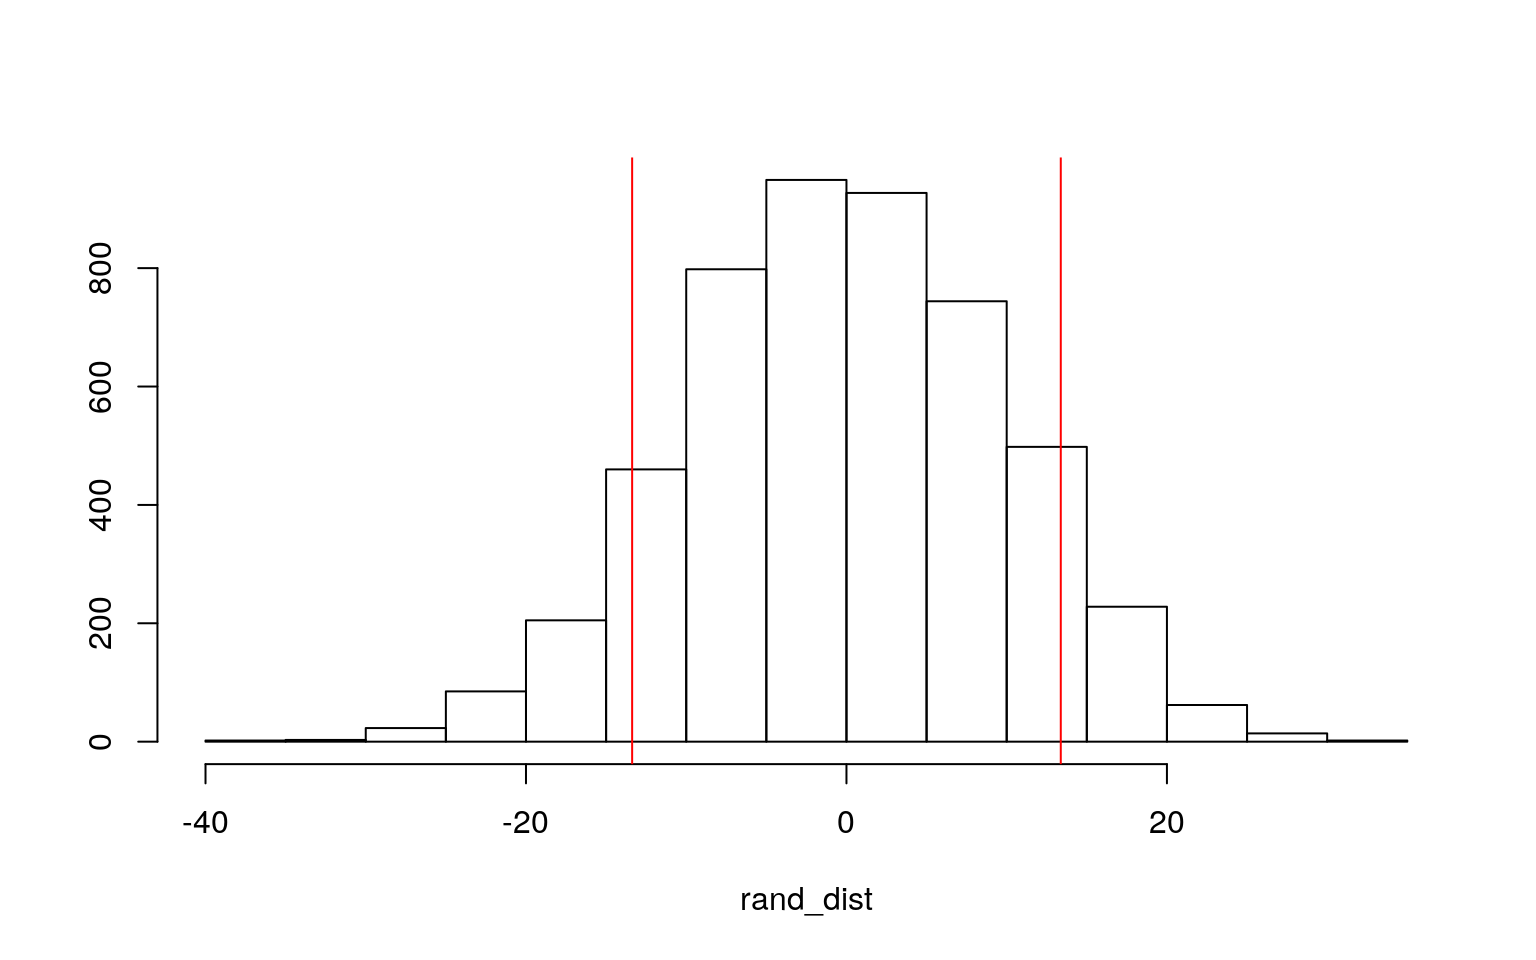
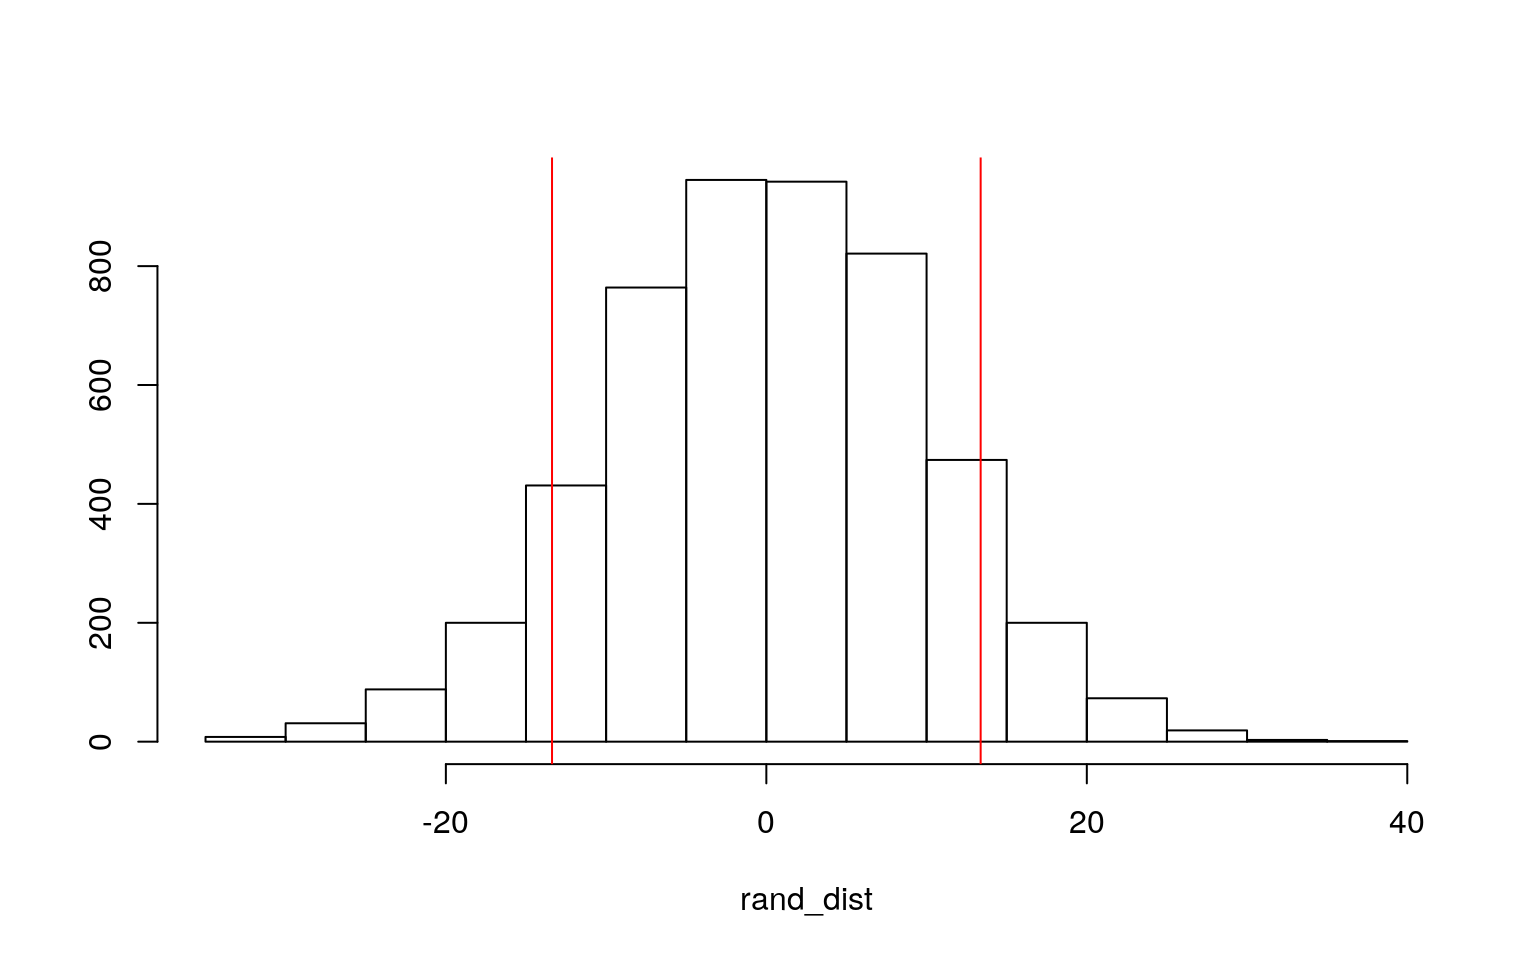
attempt 1

diff --git a/project/project2.html b/project/project2.html
@@ -152,13 +152,13 @@ mean(new[new$Darting_Style==&quot;smooth&quot;,]$Difficulty)}
 
 #Mean Difference
 mean(new[new$Darting_Style==&quot;mixed&quot;,]$Difficulty) - mean(new[new$Darting_Style==&quot;smooth&quot;,]$Difficulty)</code></pre>
-<pre><code>## [1] -5.675</code></pre>
+<pre><code>## [1] -10.075</code></pre>
 <pre class="r"><code>#Plot
 {hist(rand_dist,main=&quot;&quot;,ylab=&quot;&quot;); abline(v = c(-13.375, 13.375),col=&quot;red&quot;)}</code></pre>
 <p><img src="/project/project2_files/figure-html/unnamed-chunk-6-1.png" width="768" style="display: block; margin: auto;" /></p>
 <pre class="r"><code>#p-value
 mean(rand_dist &gt; 13.375 | rand_dist &lt; -13.375)</code></pre>
-<pre><code>## [1] 0.172</code></pre>
+<pre><code>## [1] 0.1706</code></pre>
 <p><em>I wanted to find the mean differences of fish catching difficulty based on the darting style of the fish species, because presumably, some darting styles should make a fish harder to catch than others. I reasoned that fish with a mixed style of darting would be the most unpredictable, and therefore hardest to catch. The smooth darting style also sounded like it could be attached to lower difficulty fish. These are the two categories I compared. My null hypothesis was &quot;Difficulty of catching a species of fish is the same regardless of whether the fish has a darting style of mixed or smooth&quot;, and my alternative hypothesis was &quot;Difficulty of catching a species of fish is different depending on if the fish has a darting style of mixed or smooth&quot;. After performing the randomization test, I found that the p-value was 0.1702, which is not significant. Therefore, I failed to reject the null hypothesis and concluded that fish catching difficulty is the same regardless of a smooth or mixed darting style.</em></p>
 <ul>
 <li><strong>3. (35 pts)</strong> Build a linear regression model predicting one of your response variables from at least 2 other variables, including their interaction. Mean-center any numeric variables involved in the interaction.</li>
@@ -348,7 +348,7 @@ samp_distn &lt;- replicate(5000, {
 })
 samp_distn %&gt;% t %&gt;% as.data.frame %&gt;% summarize_all(sd)</code></pre>
 <pre><code>##   (Intercept)  Hours_c Difficulty_c Hours_c:Difficulty_c
-## 1    336.6762 52.07601     31.65893             2.628185</code></pre>
+## 1    336.3706 50.95632     32.18144              2.67164</code></pre>
 <p><em>The bootstrapped standard errors for resampled observations differed slightly from the robust standard errors, and differed a large amount from the original standard errors. The bootstrapped standard errors would not have altered the fact that these interactions are not significant, because they do not differ much from the robust standard errors, and the p-values accounting for the robust standard errors were not close to significant.</em></p>
 <ul>
 <li><strong>5. (25 pts)</strong> Fit a logistic regression model predicting a binary variable (if you don't have one, make/get one) from at least two explanatory variables (interaction not necessary).</li>

diff --git a/post/2020/12/11/reticulate-allows-r-and-python-to-be-best-friends/index.html b/post/2020/12/11/reticulate-allows-r-and-python-to-be-best-friends/index.html
@@ -75,9 +75,32 @@
 <p>Different coding languages do not have to exist apart from each other. When we moved on from Rstudio to Jupyter Notebook in class, I thought that I was moving on completely from R to Python. With this, I thought I would have to change my entire frame of mind about how to do any computations using data. However, with Reticulate, I can jump between R and Python and essentially have the two languages talk to one another!</p>
 <pre class="r"><code>library(reticulate)
 
-library(ggplot2)
-
-msleep &lt;- msleep</code></pre>
+library(ggplot2)</code></pre>
+<p>This is a code chunk in R where we opened reticulate.</p>
+<pre class="python"><code>import numpy as np
+list=np.array([[1,2],[3,4]])</code></pre>
+<p>Now we can open this list in R!</p>
+<pre class="r"><code>listr &lt;- solve(py$list)
+listr</code></pre>
+<pre><code>##      [,1] [,2]
+## [1,] -2.0  1.0
+## [2,]  1.5 -0.5</code></pre>
+<p>We can even multiply the two variables together!</p>
+<pre class="python"><code>np.dot(list,r.listr).round()</code></pre>
+<pre><code>## array([[ 1.,  0.],
+##        [ 0.,  1.]])</code></pre>
+<p>This is just the minimum but we can make models in python too from R! Iris is a dataset in R, but we can do an anova model with it in python.</p>
+<pre class="r"><code>fit&lt;-lm(Petal.Width~Species, data=iris)
+anova(fit)</code></pre>
+<pre><code>## Analysis of Variance Table
+## 
+## Response: Petal.Width
+##            Df Sum Sq Mean Sq F value    Pr(&gt;F)    
+## Species     2 80.413  40.207  960.01 &lt; 2.2e-16 ***
+## Residuals 147  6.157   0.042                      
+## ---
+## Signif. codes:  0 &#39;***&#39; 0.001 &#39;**&#39; 0.01 &#39;*&#39; 0.05 &#39;.&#39; 0.1 &#39; &#39; 1</code></pre>
+<p>The fact that we can have R and python communicate with reticulate is really cool!</p>
 
             
         <hr>         <div class="related-posts">
